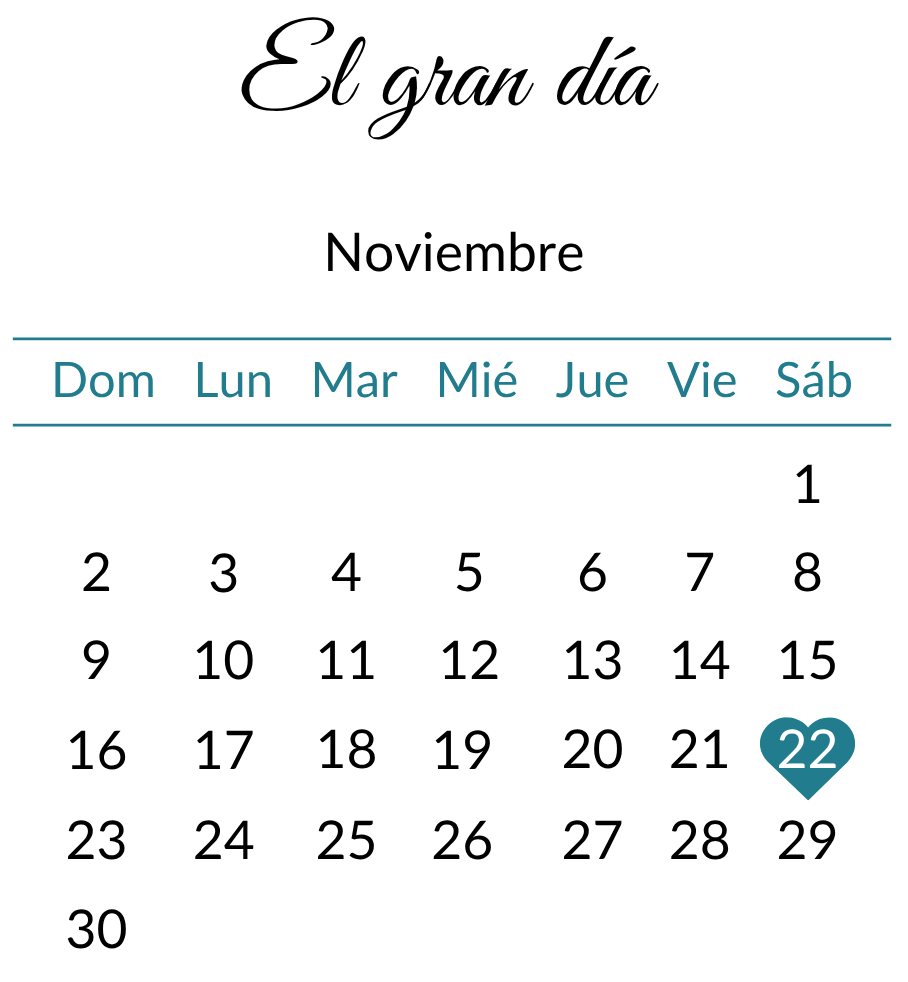
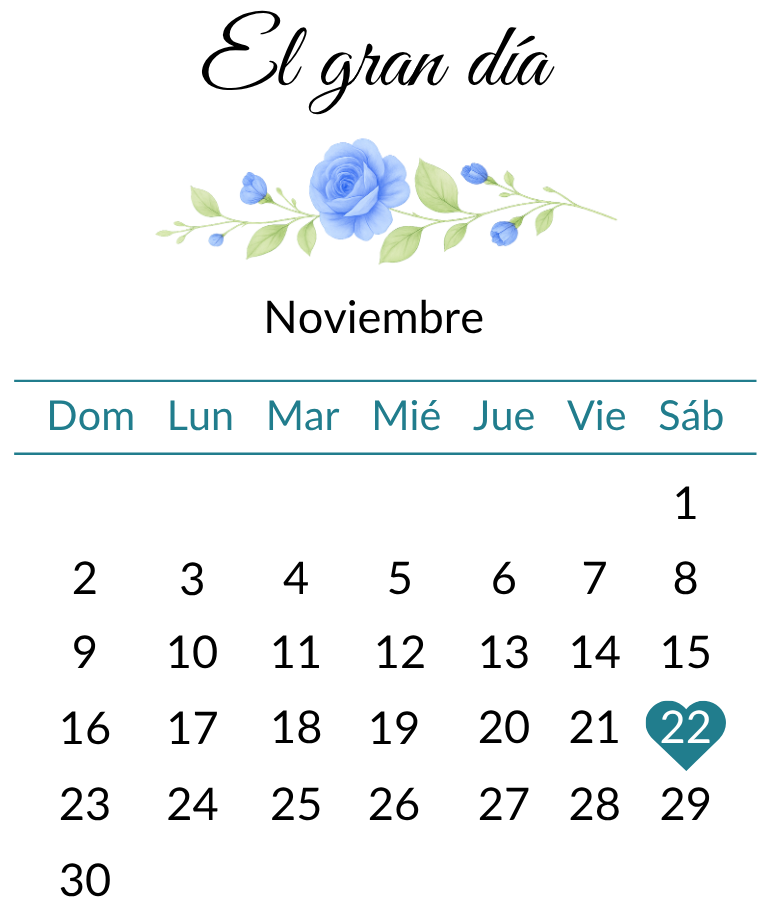
ajuste calendario mas rosa

diff --git a/style.css b/style.css
@@ -221,7 +221,7 @@ form button:hover {
   margin: 2rem auto;
   max-width: 700px;
   padding: 1rem;
-  background: #4889af;
+  background: #85a9f8;
   border-radius: 10px;
   box-shadow: 0 0 10px rgba(0,0,0,0.1);
 }
